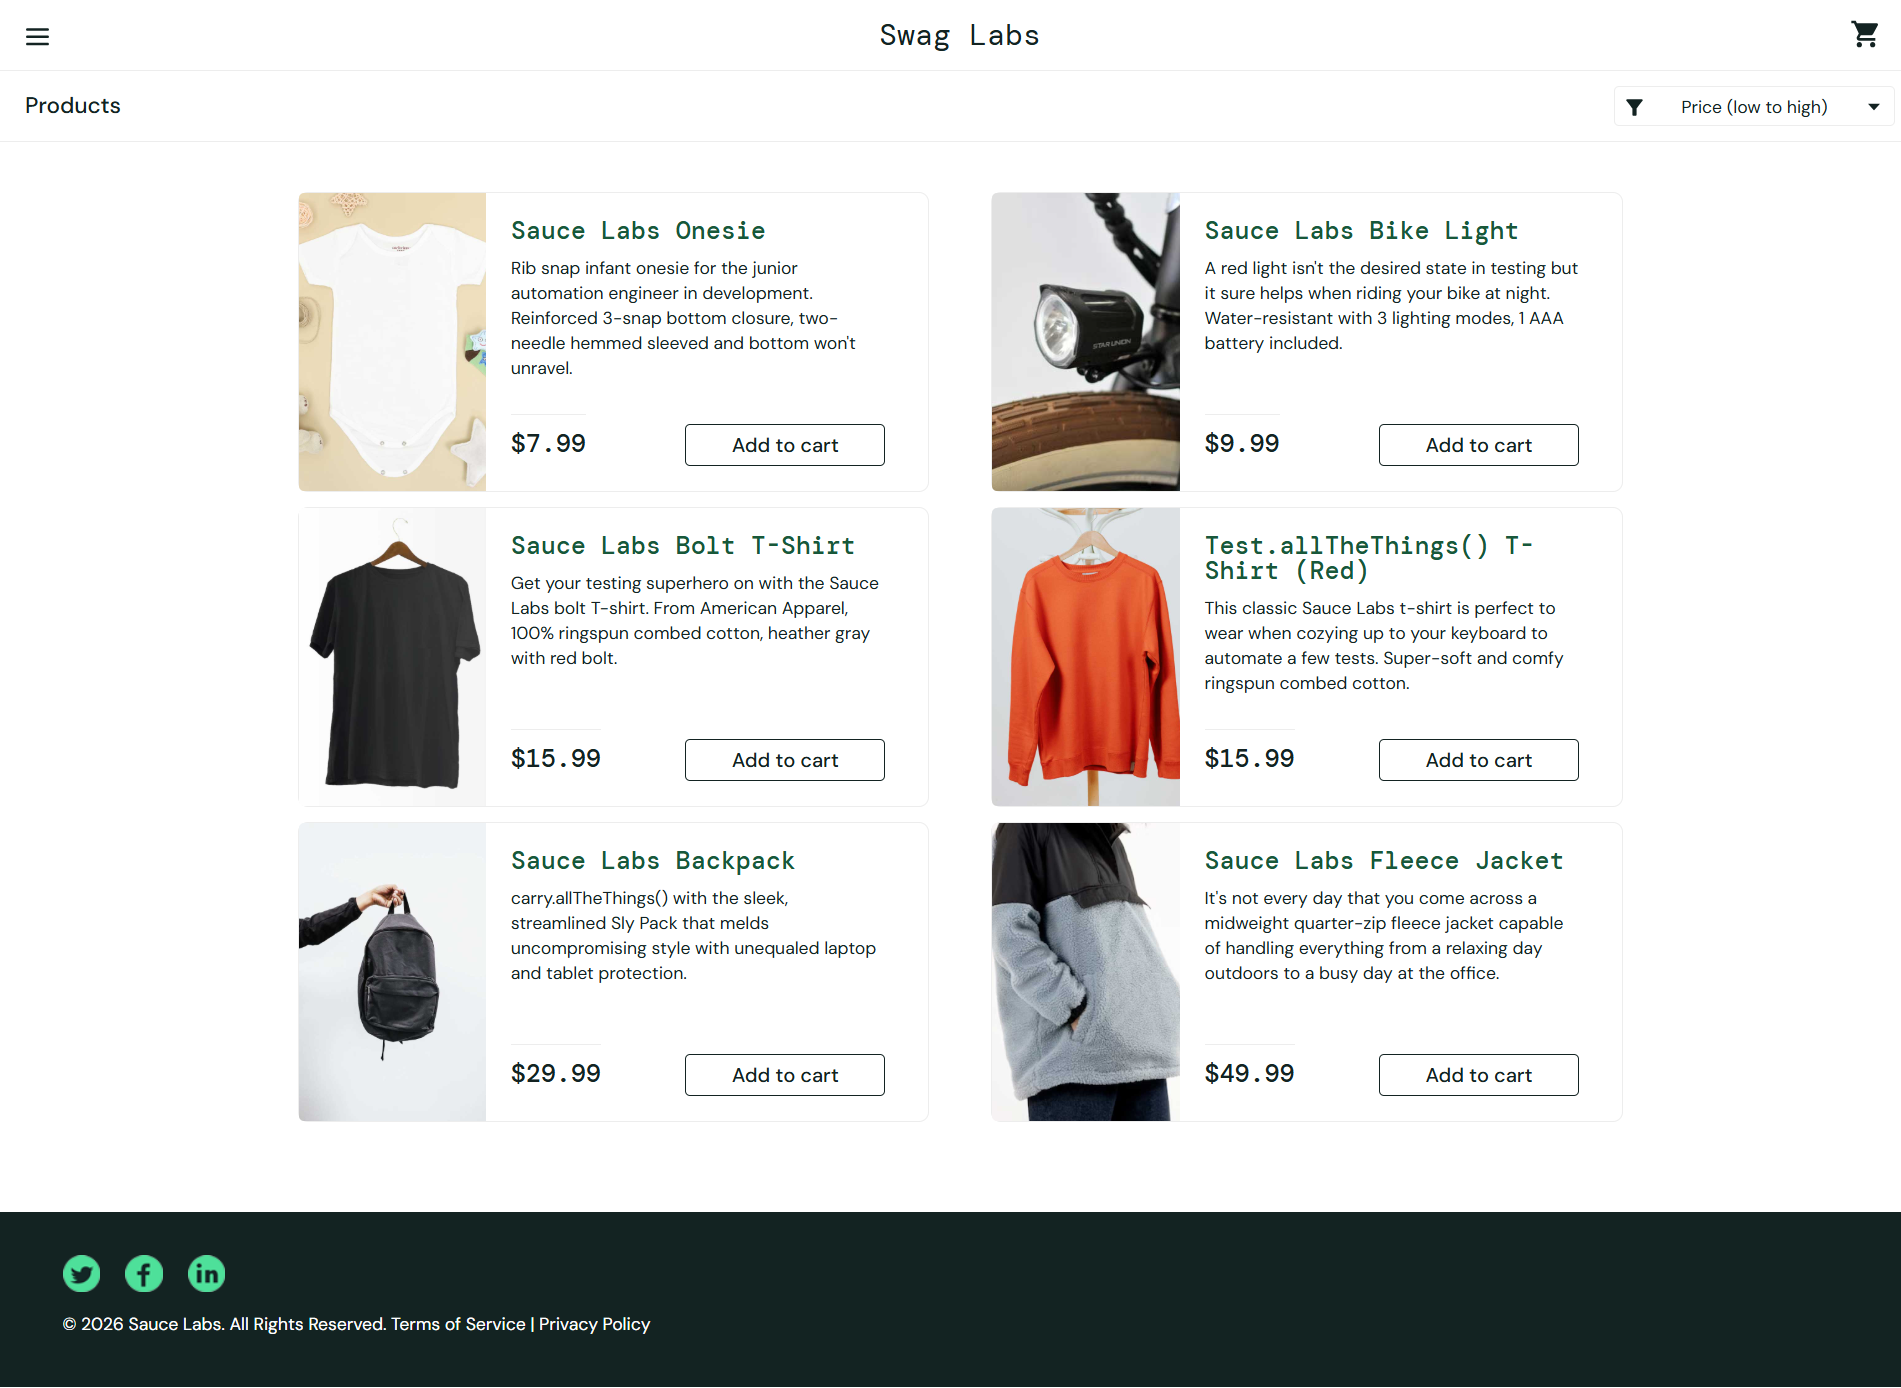
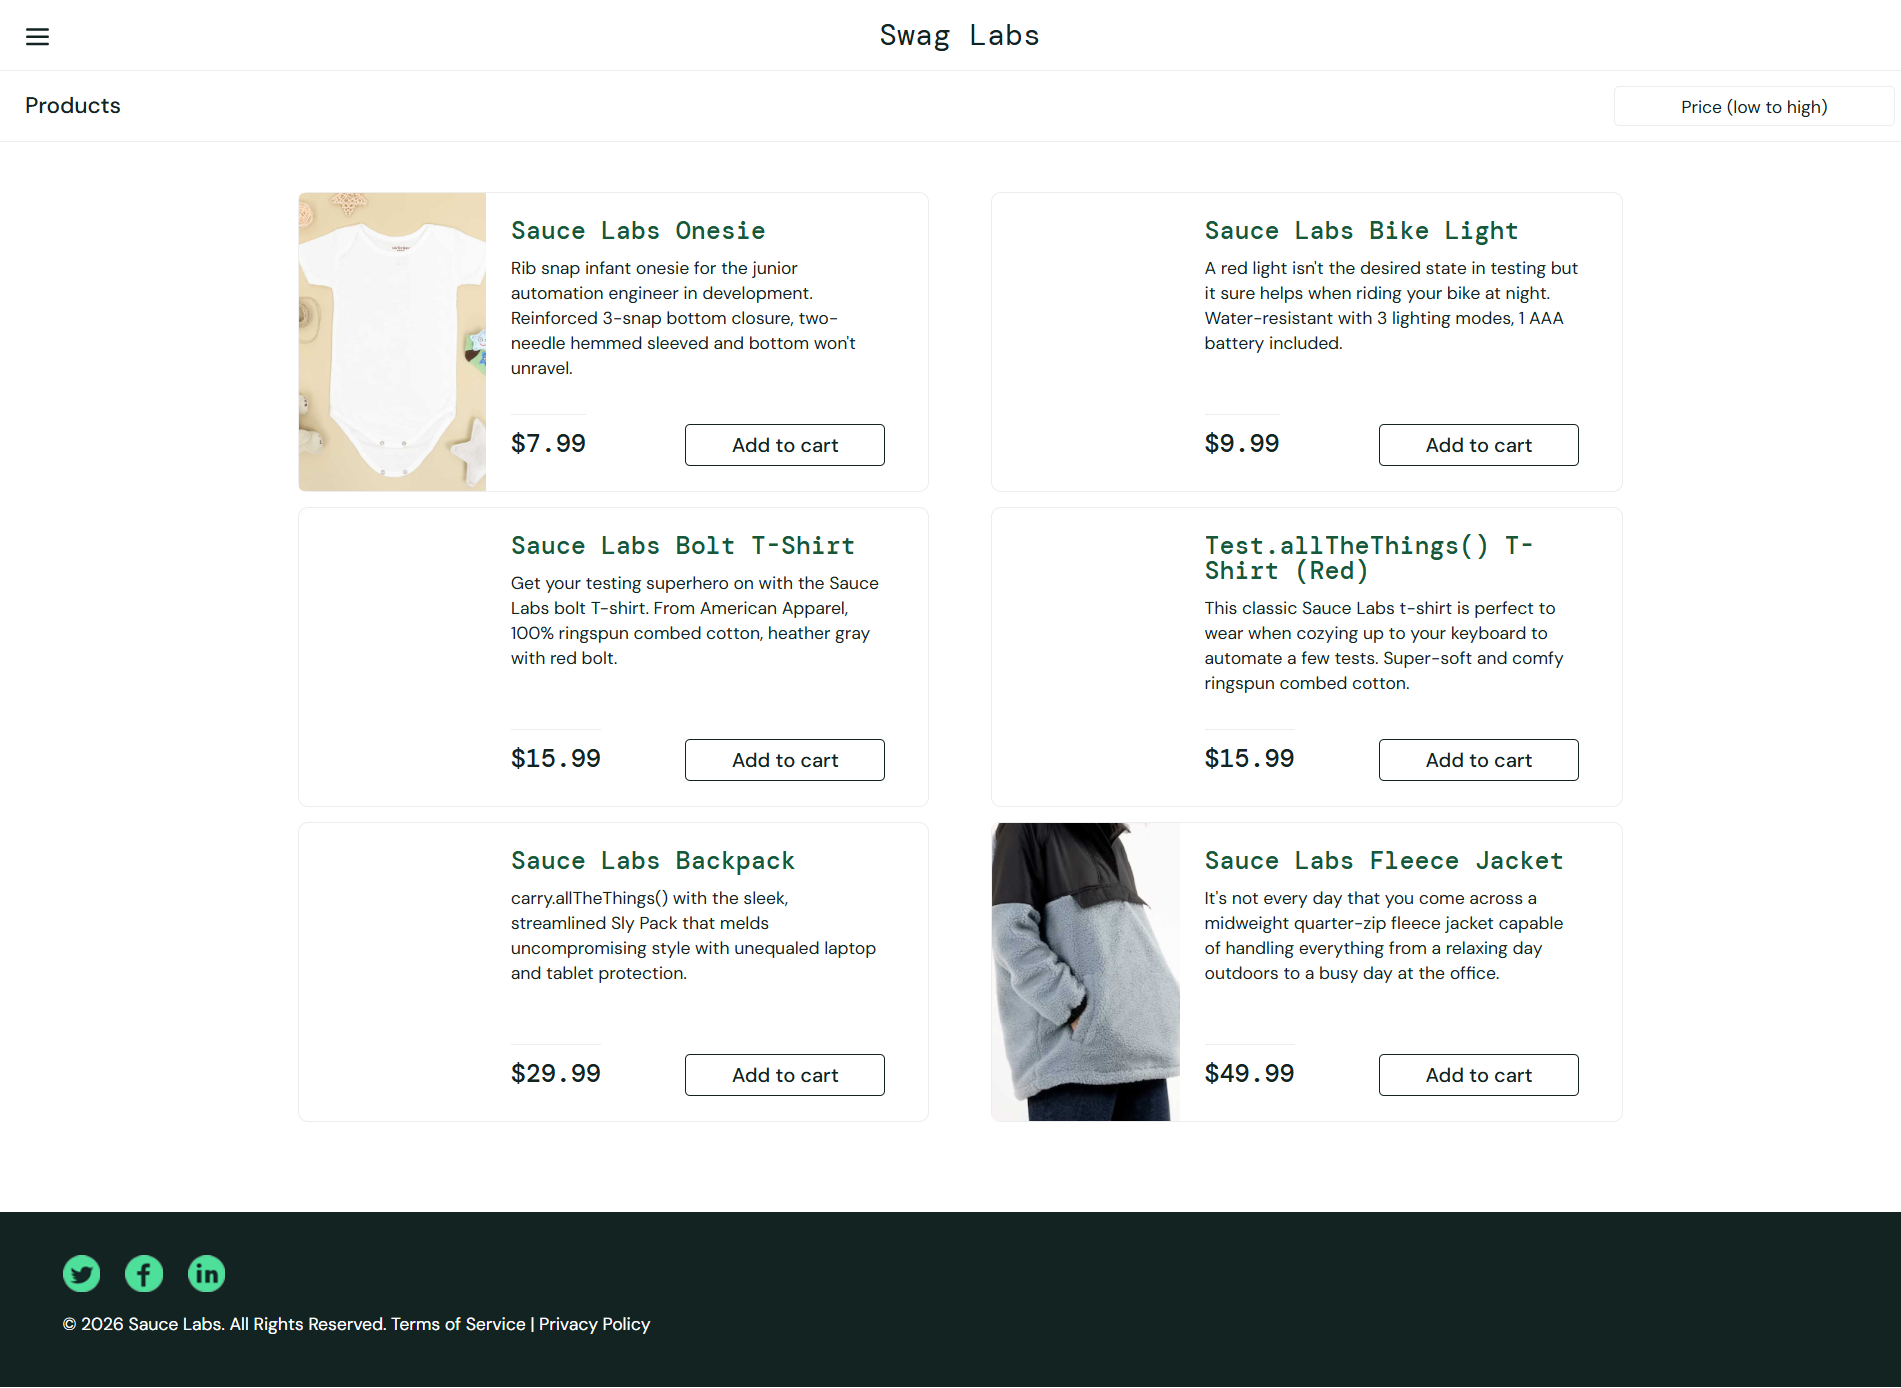
added visual UI testing

diff --git a/src/tests/specs/exercise.spec.ts b/src/tests/specs/exercise.spec.ts
@@ -14,7 +14,11 @@ test.describe('Sauce Demo Cart Tests', () => {
 
     test('Verify the login functionality of Sauce Demo', async ({ productPage }) => {
         await productPage.verifyProductsPageDisplayed();
+
+        // Visual validation of successful login
+        await productPage.waitForLoad();
         await productPage.takeScreenshot('Successful_Login');
+        await productPage.assertScreenshot('Successful_Login');
     });
 
     test('Verify user can add multiple items from cart', async ({ cartPage, productPage, homeLoginPage }) => {
@@ -27,6 +31,11 @@ test.describe('Sauce Demo Cart Tests', () => {
         await cartPage.verifyProductAvailableInCart('Sauce Labs Backpack');
         await cartPage.verifyProductAvailableInCart('Sauce Labs Bike Light');
         await cartPage.verifyCartItemCount(2);
+
+        // Visual validation of multiple items added to cart
+        await productPage.waitForLoad();
+        await productPage.takeScreenshot('Multiple_Items_Added_to_Cart');
+        await productPage.assertScreenshot('Multiple_Items_Added_to_Cart');
 
         await homeLoginPage.logout();
     });
@@ -41,18 +50,30 @@ test.describe('Sauce Demo Cart Tests', () => {
         await cartPage.verifyProductAvailableInCart('Sauce Labs Backpack');
         await cartPage.verifyProductAvailableInCart('Sauce Labs Bike Light');
 
+        // Visual validation of multiple items added to cart before removal
+        await productPage.takeScreenshot('Multiple_Items_Added_to_Cart_Before_Removal');
+        await productPage.assertScreenshot('Multiple_Items_Added_to_Cart_Before_Removal');
+
         await cartPage.removeProductFromCart('Sauce Labs Backpack');
         await cartPage.verifyProductRemovedFromCart('Sauce Labs Backpack');
 
         await cartPage.verifyProductAvailableInCart('Sauce Labs Bike Light');
         await cartPage.verifyCartItemCount(1);
 
+        // Visual validation of item removed from cart
+        await productPage.waitForLoad();
+        await productPage.takeScreenshot('Item_Removed_from_Cart');
+        await productPage.assertScreenshot('Item_Removed_from_Cart');
+
         await homeLoginPage.logout();
     });
 
     test('Verify products are sorted by Price Low to High', async ({ productPage, homeLoginPage }) => {
         await productPage.sortProductsBy(SORT_OPTIONS.PRICE_LOW_TO_HIGH);
+        await productPage.waitForLoad();
+
         await productPage.takeScreenshot('products_sorted_by_price_low_to_high');
+
         await productPage.verifyProductsSortedByPriceLowToHigh();
         await homeLoginPage.logout();
     });
@@ -79,6 +100,11 @@ test.describe('Sauce Demo Cart Tests', () => {
         await checkoutPage.clickContinue();
         await checkoutPage.verifyCheckoutOverviewPageDisplayed();
 
+        // Visual validation of Checkout Overview page
+        await productPage.waitForLoad();
+        await productPage.takeScreenshot('Checkout_Overview_Page');
+        await productPage.assertScreenshot('Checkout_Overview_Page');
+
         // Verify Order Summary Calculations
         const itemTotalText = await checkoutPage.itemPrice.innerText();
         const taxText = await checkoutPage.taxPrice.innerText();
@@ -95,6 +121,12 @@ test.describe('Sauce Demo Cart Tests', () => {
 
         await checkoutPage.clickFinish();
         await checkoutPage.verifyOrderCompletedSuccessfully();
+
+        // Visual validation of Order Completed Successfully page
+        await productPage.waitForLoad();
+        await productPage.takeScreenshot('Order_Completed_Successfully');
+        await productPage.assertScreenshot('Order_Completed_Successfully');
+
         await homeLoginPage.logout();
     });
 

diff --git a/playwright.config.ts b/playwright.config.ts
@@ -3,11 +3,19 @@ import { defineConfig, devices } from "@playwright/test";
 export default defineConfig({
   testDir: "./src/tests/specs/", // Directory for test specs
   timeout: 60000, // Default timeout per test (60s)
-  retries: process.env.CI ? 2 : 0, // Retry failed tests up to 2 times
+  retries: process.env.CI ? 2 : 1, // Retry failed tests up to 2 times
   fullyParallel: true, // Run tests in parallel
   forbidOnly: !!process.env.CI, // Prevent accidental .only in CI
   workers: process.env.CI ? 1 : undefined, // Limit workers in CI
   reporter: "html",
+
+  /* Global visual regression configurations */
+  expect: {
+    toHaveScreenshot: {
+      maxDiffPixels: 100, // Permits minor rendering shifts (e.g., antialiasing)
+      threshold: 0.2,     // Per-pixel color difference sensitivity
+    },
+  },
 
   // Shared settings across all projects
   use: {

diff --git a/src/pages/BasePage.ts b/src/pages/BasePage.ts
@@ -11,6 +11,10 @@ export class BasePage {
         await this.page.goto(url);
     }
 
+    async waitForLoad(): Promise<void> {
+        await this.page.waitForLoadState('load');
+    }
+
     async clickElement(locator: Locator): Promise<void> {
         await locator.click();
     }
@@ -33,6 +37,10 @@ export class BasePage {
 
     async takeScreenshot(text: string): Promise<void> {
         await this.page.screenshot({ path: `screenshots/${text}.png`, fullPage: true });
+    }
+
+    async assertScreenshot(text: string): Promise<void> {
+        await expect(this.page).toHaveScreenshot(`screenshots/${text}.png`, { fullPage: true });
     }
 
 }

diff --git a/playwright-report/index.html b/playwright-report/index.html
@@ -87,4 +87,4 @@ Error generating stack: `+l.message+`
     <div id='root'></div>
   </body>
 </html>
[2 lines of base64/hex data omitted]